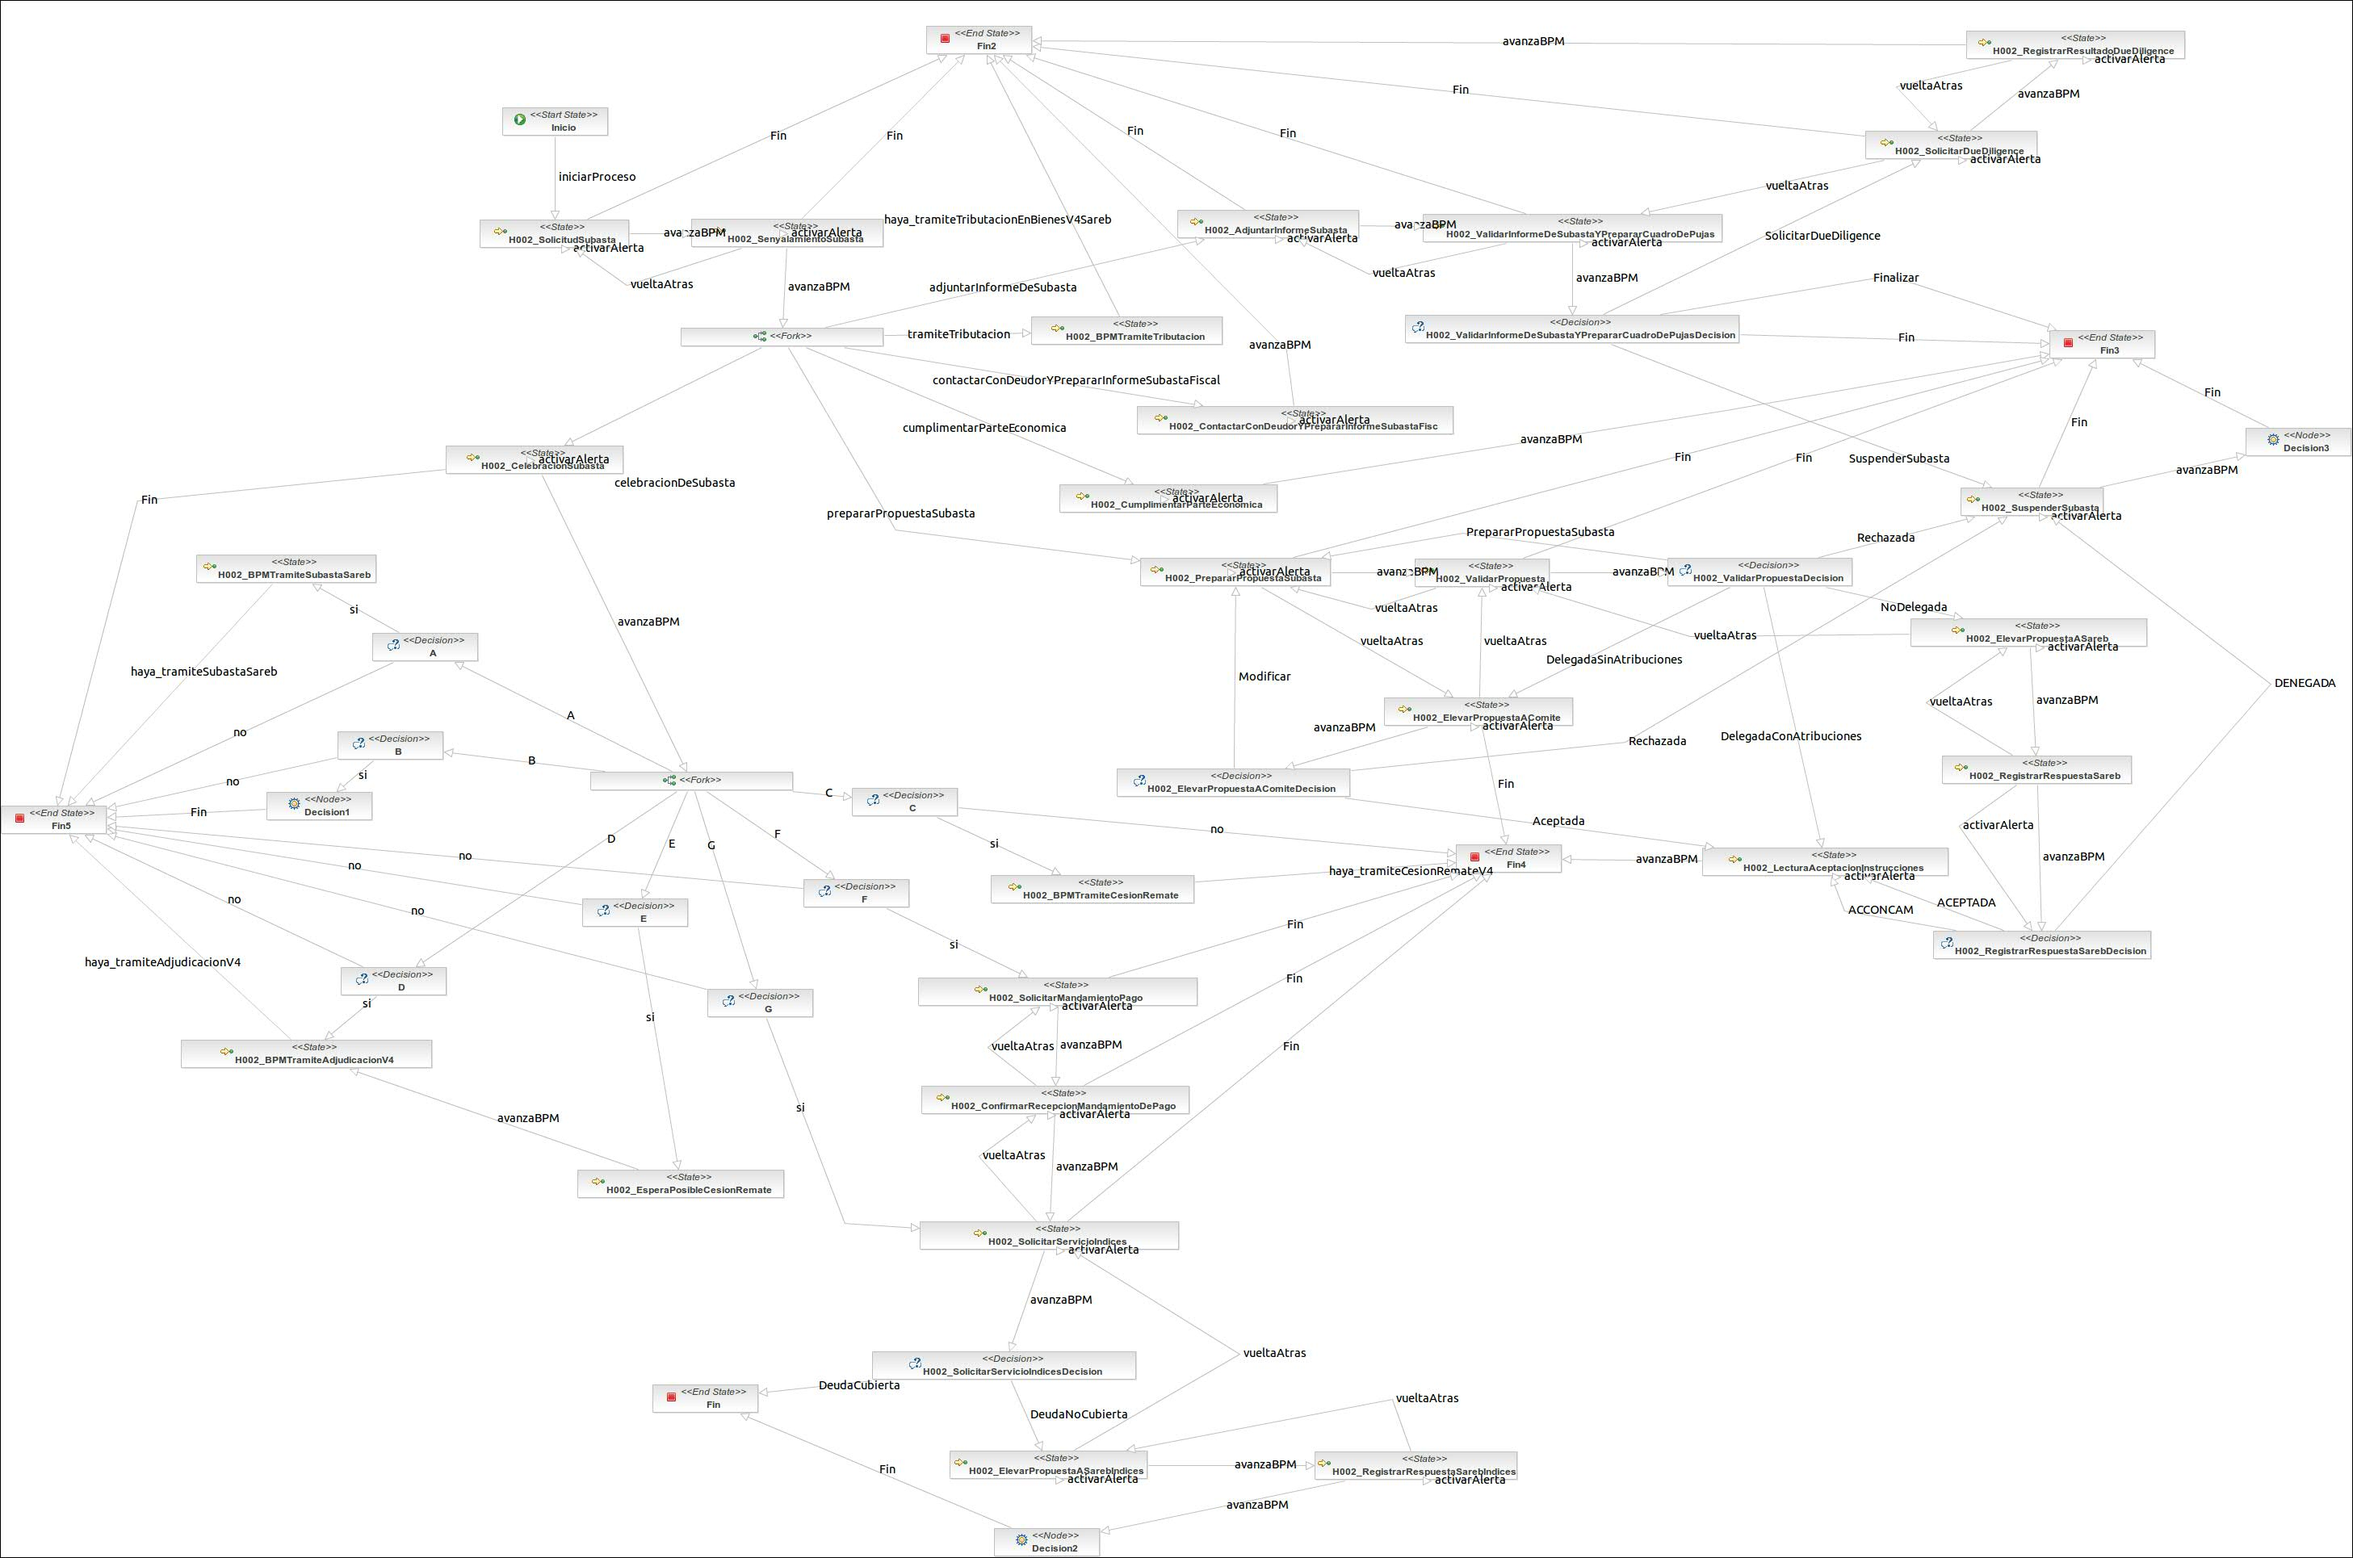
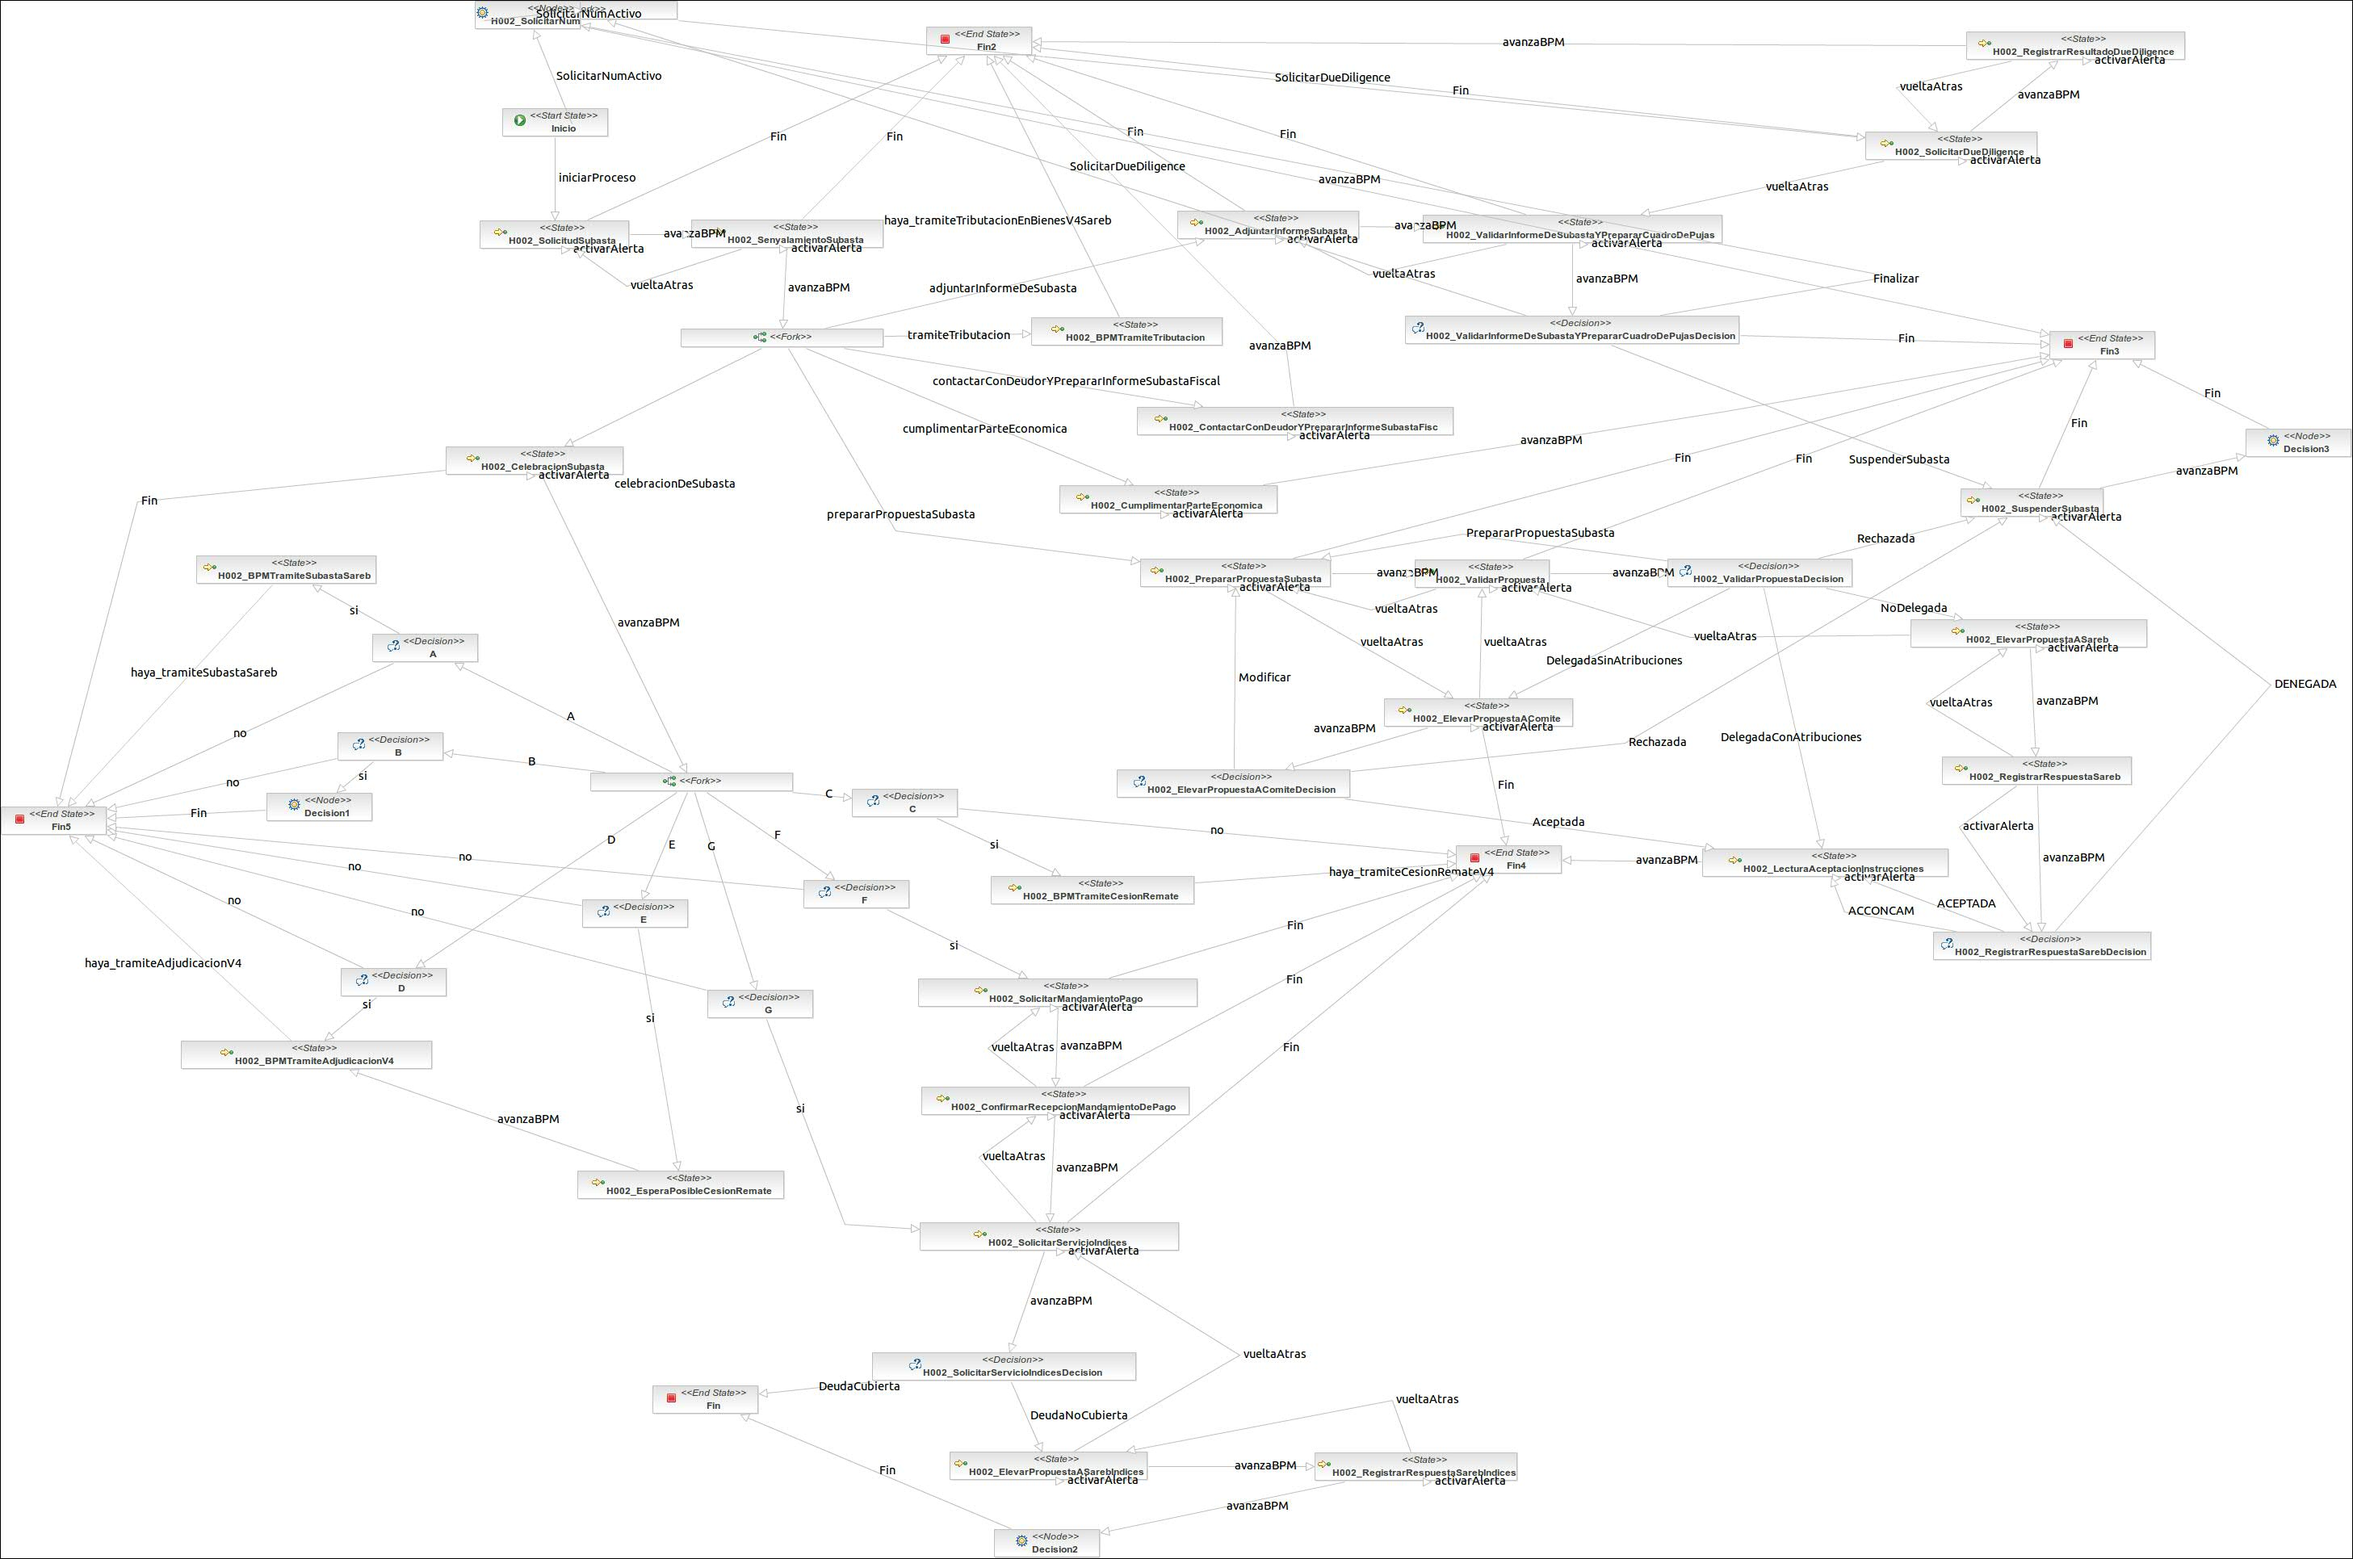
HR-468

diff --git a/recovery-procedimientos-bpmHaya/src/main/java/es/pfsgroup/procedimientos/subasta/SolicitarNumActivoHandler.java b/recovery-procedimientos-bpmHaya/src/main/java/es/pfsgroup/procedimientos/subasta/SolicitarNumActivoHandler.java
@@ -1,0 +1,60 @@
+package es.pfsgroup.procedimientos.subasta;
+
+import java.util.List;
+
+import org.jbpm.graph.exe.ExecutionContext;
+import org.springframework.beans.factory.annotation.Autowired;
+
+import es.capgemini.pfs.BPMContants;
+import es.capgemini.pfs.asunto.model.Procedimiento;
+import es.capgemini.pfs.bien.model.Bien;
+import es.pfsgroup.commons.utils.api.ApiProxyFactory;
+import es.pfsgroup.plugin.recovery.coreextension.subasta.api.SubastaProcedimientoApi;
+import es.pfsgroup.plugin.recovery.coreextension.subasta.api.SubastasServicioTasacionDelegateApi;
+import es.pfsgroup.plugin.recovery.coreextension.subasta.model.LoteSubasta;
+import es.pfsgroup.plugin.recovery.coreextension.subasta.model.Subasta;
+import es.pfsgroup.plugin.recovery.nuevoModeloBienes.model.NMBBien;
+import es.pfsgroup.procedimientos.PROBaseActionHandler;
+
+public class SolicitarNumActivoHandler extends PROBaseActionHandler {
+
+	private static final long serialVersionUID = 1L;
+
+	@Autowired
+	protected ApiProxyFactory proxyFactory;
+
+    /**
+     * Solicita un número de activo para cada bien.
+     * @throws Exception e
+     */
+    @Override
+    public void run(ExecutionContext executionContext) throws Exception {
+
+    	// Recupera la subasta de este procedimiento
+		Procedimiento prc = getProcedimiento(executionContext);
+		Subasta sub = proxyFactory.proxy(SubastaProcedimientoApi.class).obtenerSubastaByPrcId(prc.getId());
+		
+		// Recorre los bienes de los lotes.
+		List<LoteSubasta> listaLotes = sub.getLotesSubasta();
+		for (LoteSubasta lote : listaLotes) {
+			List<Bien> bienes = lote.getBienes();
+			for (Bien bien : bienes) {
+				if (!(bien instanceof NMBBien)) {
+					continue;
+				}
+				NMBBien nmbBien = (NMBBien)bien;
+				boolean tieneNumeroActivo = nmbBien.tieneNumeroActivo();
+				
+				// para las que no tienen numero y hayan sido marcados para la subasta 
+				if (!tieneNumeroActivo) {
+					// llamada solicita_tasacion();
+					proxyFactory.proxy(SubastasServicioTasacionDelegateApi.class).solicitarNumeroActivoByPrcId(nmbBien.getId(), prc.getId());
+				}
+			}
+		}
+    	
+    	// Avanza BPM
+		executionContext.getToken().signal(BPMContants.TRANSICION_AVANZA_BPM);
+    }
+
+}
